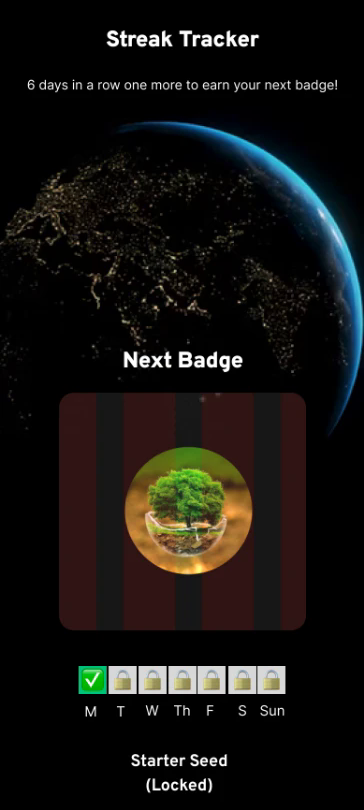
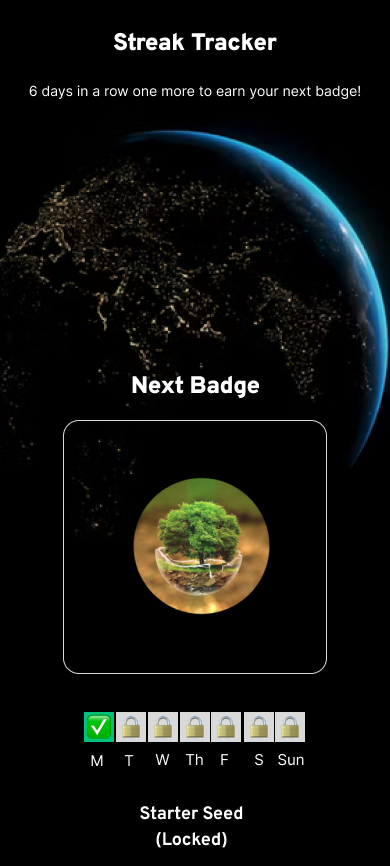
Klima draft: final Today's Impact screen, affinity themes, tiers removed
Claude-Session: https://claude.ai/code/session_01UajVehgWQjKjEREoAyopuB

diff --git a/design/CHANGELOG.md b/design/CHANGELOG.md
@@ -2,6 +2,14 @@
 
 Newest first. Every design or structure decision goes here.
 
+## 2026-10-08 · Klima structure locked, UI refresh required
+
+- Badge tier note deleted (Aaron): the garden stages replace the Bronze to Legendary tiers.
+- The Track step now uses the final Today's Impact frame from the prototype file, read through the Figma connector.
+- Affinity map placeholder replaced with the three themes from the board: the sustainability journey, measuring impact, and offsetting, money and trust.
+- The 2026 gamification refresh is required before Klima publishes (Aaron). The page structure is done; only the UI images change.
+- The System Usability Scale result stays off the page until Aaron confirms the details.
+
 ## 2026-10-08 · Klima garden stages and the original Multiply tab
 
 - Read Aaron's final prototype file through the Figma connector. The How It Works frame confirms the garden path: 7 challenges on a 7 day streak earn a badge, and badges move the garden through Seed Patch, Sprouting Garden, Forest Stage and Thriving Ecosystem. Added as a table under the challenge loop.
